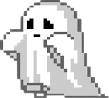
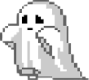
add successfully

diff --git a/CS202/CS202/Constants.h b/CS202/CS202/Constants.h
@@ -33,8 +33,8 @@ namespace Constants
 	const int Height_Cartype[] = { 64,64,64,64 };
 	const float speedCar[] = { 1, 0.7, 0.85, 2 };
 	const string Animaltype[] = { "bird", "dino", "ghost"};
-	const int Height_AniType[] = { 80,80 };
-	const float speedAni[] = { 1.2,0.7 };
+	const int Height_AniType[] = { 80,80,80};
+	const float speedAni[] = { 1.2,0.7,0.9 };
 	// type
 	const int car = 1;
 	const int animal = 2;
